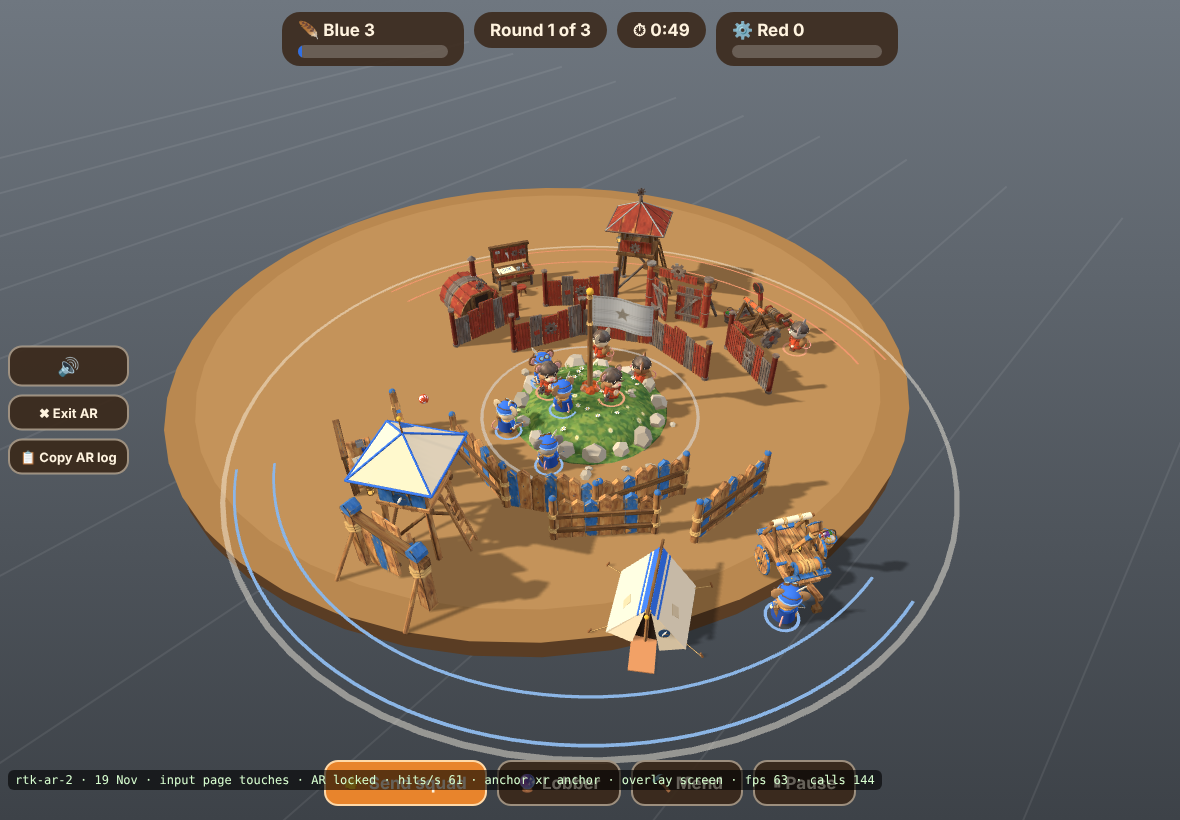
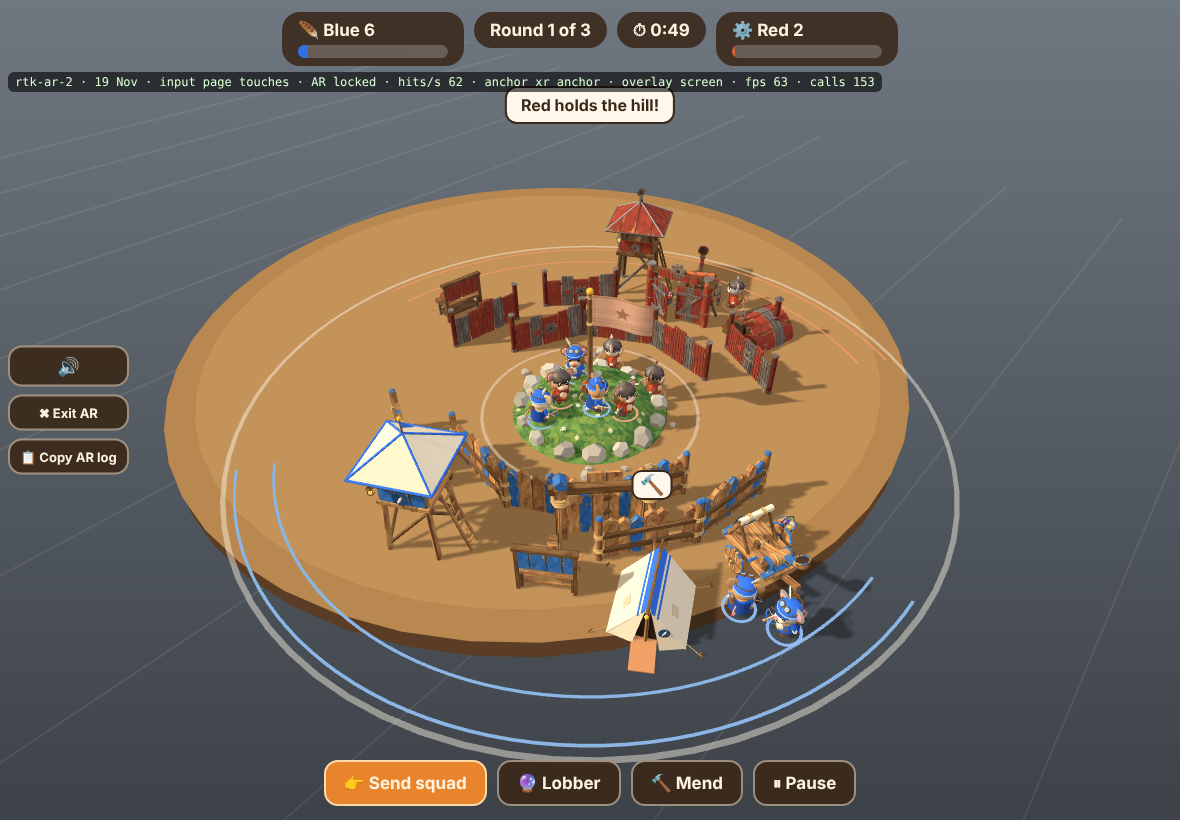
AR: page bars put away when the buttons are in the scene; AR notes with the 8-step try list; shots
Claude-Session: https://claude.ai/code/session_0171oc5wTsPoimaja7RRfUcs

diff --git a/games/sofa-siege/tests/ar-test.js b/games/sofa-siege/tests/ar-test.js
@@ -166,6 +166,7 @@ const run = async () => {
     await ev2(() => SG.demo(11, 0)); await btn('done'); ok(label + ': Done ends the build; Start battle is offered in the scene', await ev2(() => SG.phase === 'ready' && SG.ar.buttons.indexOf('start') >= 0));
     await btn('start'); await ev2(() => { SG.step(SG.CONFIG.count + .1); SG.sides[1].bot = false; SG.stepUntil(() => SG.debug.crewReady(0), 15); SG.sides[0].reload = 0; }); await fr(3);
     ok(label + ': the fight shows Squad, Lobber, Mend, Pause and Exit AR in the scene', await ev2(() => SG.phase === 'fight' && ['squad', 'lobber', 'mend', 'pause', 'exit'].every((b) => SG.ar.buttons.indexOf(b) >= 0)), JSON.stringify(await ev2(() => SG.ar.buttons)));
+    if (label === 'overlay missing') { await ev2(() => { document.body.style.background = 'linear-gradient(#6f7780,#3d4248)'; SG.render(); }); await fr(2); await p.screenshot({ path: path.join(SHOTS, 'ar-4-scene-buttons.png') }); }
     q = await sc(0.1, 0.3); await tap(q.x, q.y); ok(label + ': a tap sends the squad', await ev2(() => SG.sides[0].order && Math.hypot(SG.sides[0].order.x - 0.1, SG.sides[0].order.z - 0.3) < 0.05));
     await btn('lobber'); const d0 = await sc(-1.0, 1.4), d1 = await sc(-1.0, 2.3);
     await ev2(([d0]) => __XRF.press(d0.x, d0.y), [d0]); await fr(2); for (let k = 1; k <= 4; k++) { await ev2(([d0, d1, k]) => __XRF.drag(d0.x + (d1.x - d0.x) * k / 4, d0.y + (d1.y - d0.y) * k / 4), [d0, d1, k]); await fr(2); }

diff --git a/games/sofa-siege/index.html b/games/sofa-siege/index.html
@@ -18,7 +18,8 @@ canvas{display:block;touch-action:none}
 #ui{position:fixed;left:0;top:0;right:0;bottom:0;pointer-events:none}#ui .btn,#ui input{pointer-events:auto}.cover{pointer-events:auto}.bar{pointer-events:none}
 body.ar{background:transparent}body.ar #ui{pointer-events:auto;touch-action:none}body.ar #tag,body.ar #bCam{display:none!important}
 #arbar{display:none;align-items:center}
-#dev{position:fixed;left:8px;bottom:30px;font:12px ui-monospace,Menlo,monospace;background:rgba(0,0,0,.6);color:#d8ffd0;padding:3px 7px;border-radius:6px;display:none;pointer-events:none;white-space:pre}
+body.sceneui .bar,body.sceneui #side,body.sceneui #say{display:none!important}
+#dev{position:fixed;left:8px;top:72px;font:12px ui-monospace,Menlo,monospace;background:rgba(0,0,0,.6);color:#d8ffd0;padding:3px 7px;border-radius:6px;display:none;pointer-events:none;white-space:pre}
 #bCam{position:fixed;right:12px;top:12px;display:none;font-size:14px;padding:8px 12px}
 #side{position:fixed;left:8px;top:50%;transform:translateY(-50%);display:none;flex-direction:column;gap:8px}#side .btn{font-size:18px;padding:8px 10px}#bPause2{display:none}
 .pp{position:fixed;left:0;right:0;bottom:0;height:70px;display:none;align-items:center;justify-content:space-between;gap:8px;padding:0 10px;box-sizing:border-box;pointer-events:none}

diff --git a/games/sofa-siege/game.js b/games/sofa-siege/game.js
@@ -774,7 +774,7 @@ function arFrame(time,frame){
   if(AR.xrSrc&&vp){var sp=arSelPoint(frame,AR.xrSrc);if(sp&&AR.xrPt&&(Math.abs(sp.x-AR.xrPt.x)>.5||Math.abs(sp.y-AR.xrPt.y)>.5)){AR.xrPt=sp;AR.h.move(synth(sp));}}
   /* no overlay 1.5 s in, or taps seen by XR that never reached the page: draw the buttons in the scene instead */
   if(!AR.sceneUi&&((AR.overlay==='none'&&time-AR.started>1500)||(AR.selN>0&&!AR.domInput&&performance.now()-AR.selT>400))){AR.sceneUi=true;AR.inputPath='xr select';arEvent('in-scene buttons on ('+(AR.overlay==='none'?'no overlay':'overlay gets no touches')+')');}
-  if(AR.sceneUi)sceneUiFrame();else if(V.sui)V.sui.visible=false;
+  if(AR.sceneUi){sceneUiFrame();if(document.body.className!=='ar sceneui')document.body.className='ar sceneui';}else if(V.sui)V.sui.visible=false;   /* with the buttons in the scene, the page's own bars are put away so the two never overlap */
   arPublic();render();if(SG.dev)devLine(raw);if(PERF)perfFrame(raw);}
 /* ---- XR select as taps and drags ---- */
 function synth(pt){return {clientX:pt.x,clientY:pt.y,pointerId:9001,pointerType:'touch',target:E('ui'),xr:true,preventDefault:function(){}};}

diff --git a/games/sofa-siege/AR_NOTES.md b/games/sofa-siege/AR_NOTES.md
@@ -17,7 +17,7 @@ The practice table is still the default. AR starts only from the title button "P
 - **Guard:** pixel ratio capped at 1.5, shadow map 1024. If frames stay over 40 ms for 3 seconds, shadows go off and the dev line says so once.
 - **`?dev=1`:** a small line with the session state, hit tests a second, frame rate, draw calls and the anchor kind.
 
-## Proven by the fake (tests/ar-test.js, 32 checks)
+## Proven by the fake (tests/ar-test.js, 73 checks)
 
 - The page starts with no WebXR, with WebXR but no AR, and when the session refuses to start.
 - The session starts with the right features; the practice room is hidden.
@@ -29,6 +29,11 @@ The practice table is still the default. AR starts only from the title button "P
 - A full bot match runs inside the session to a winner, with no stuck mouse.
 - A saved card layout is offered after the lock and used.
 - Leaving AR goes back to the title, and the practice table still plays.
+- **In-scene buttons:** with no overlay (1.5 seconds in), or with an overlay that never gets a touch, flat buttons are drawn along the bottom of the view and every tap and drag comes through the XR `select` events. A whole flow was played that way twice: place, turn, size, lock, build by tap and by drag, Undo, Done, Start battle, Squad, Lobber drag, Mend, Pause, Re-place table, Exit AR.
+- **Exit AR** ends the session, and tidies up by itself if the session never answers.
+- **Tracking loss with no tracking state:** a pose that is exactly unchanged for 2 seconds while `devicemotion` says the iPad moves counts as lost; an iPad lying still does not. A jump of over 1 m in one frame pauses, asks "Is the table still in place?" and offers Re-place table; the table is not moved.
+- **The guard:** does not trip at 16 ms a frame, trips after about 3 seconds at 60 ms a frame, and says so once.
+- **Copy AR log** gives build, user agent, features, overlay, input path, anchor kind, frame rate, hit tests, table size, every pause and loss with its time, and page errors. No picture and nothing about the room.
 - No page errors.
 
 The fake is a small hand-written WebXR (`tests/ar-fake.js`): one flat disc for the table, a camera the test moves, perfect tracking. It is not the WebXRKit polyfill that Base Camp's tests use.
@@ -36,35 +41,32 @@ The fake is a small hand-written WebXR (`tests/ar-fake.js`): one flat disc for t
 ## NOT TESTED on a real iPad (most of it)
 
 1. **Whether the session starts in HelloXR at all** with these features. The hit-test source asks for `entityTypes: ['plane']` as Base Camp does, and falls back to the default if that is refused.
-2. **The dom overlay.** Base Camp's notes say HelloXR's polyfill can start without wiring the overlay. This build copies Base Camp's fix (it finds the polyfill's device and calls `setDomOverlayRoot`), and the dev line then says `overlay connected by the game`. That path cannot run in the fake, so it is untested. There are no in-scene buttons as a fallback: if the overlay does not show, there is nothing to press.
+2. **The dom overlay.** Base Camp's notes say HelloXR's polyfill can start without wiring the overlay. This build copies Base Camp's fix (it finds the polyfill's device and calls `setDomOverlayRoot`), and the dev line then says `overlay connected by the game`. That path cannot run in the fake. If the overlay is missing or deaf, buttons are drawn in the scene instead; that fallback depends on HelloXR sending XR `select` events for screen taps, which is also unknown. If it sends neither page touches nor selects, nothing can be pressed.
 3. **Touches.** In AR the taps are read from the overlay root (`#ui`). Whether HelloXR delivers pointer events there, and whether a tap on a button also reaches the table, is unknown.
 4. **The camera picture behind the game.** The canvas is see-through and the page background is clear in AR. Whether HelloXR shows the camera behind it, or a black page, is unknown.
 5. **three.js r128's own XR code in HelloXR** (`renderer.xr.setSession`). Base Camp uses the same call, so this is the likeliest part to work.
 6. **Hit tests on a real table:** how fast a plane is found, whether the ring jitters, whether it lands on the floor through a glass table.
 7. **Scale and drift:** whether 100 cm really matches a 1 m table, and how far the game slides when you walk round. HelloXR's anchors are emulated in JavaScript and its origin jumps after sleep (Base Camp's notes), so expect the table to move after the iPad sleeps. Use Re-place table.
-8. **Tracking loss:** Base Camp's notes say HelloXR "sends no tracking state". If it keeps sending a stale pose, the 1-second rule will never fire.
+8. **Tracking loss:** Base Camp's notes say HelloXR "sends no tracking state". The frozen-pose rule needs `devicemotion` events, which iOS gives only after a permission prompt that this build does not ask for; without them a frozen pose is not noticed. A stale pose that still drifts a little is not noticed either.
 9. **Frame rate, heat and battery.** About 63,000 triangles and 170 draw calls; never measured on an A-series chip.
 10. **Shadows on the invisible plane** against a real table top: may look too dark, too faint, or float.
 11. **Sound** in the app's web view.
 12. **Portrait and landscape, and rotating the iPad mid-session.**
 13. **Two players in AR.** Not built. AR is one player against the robot.
 
-## What Harry should try, and what to look for
+## What Harry should try (8 steps), and what each outcome tells us
 
-Open the game in HelloXR with `?dev=1` on the end of the address.
+Open the game in HelloXR with `?dev=1` on the end of the address. The green dev line near the top left starts with the build label (`rtk-ar-2 · 19 Nov`); if it says something else, the page is an old copy.
 
-1. **Title.** Is there a "Play on my table (AR)" button? If not, note the small line under Play.
-2. **Press it.** Does the camera picture appear? Is the bar "Find your table" visible at the bottom? Read out the dev line (bottom left).
-3. **Point at the table.** Does a white ring appear on the table top? How long does it take? Does it sit on the table or on the floor?
-4. **Tap.** Does a faint table ring with a green hill appear where the white ring was?
-5. **Turn and size.** Drag sideways, twist with two fingers, move the slider. Set it so the faint ring matches your table's edge. What size did that take?
-6. **Lock table.** Do the mats, mice and build buttons appear? Does the dev line say `anchor xr anchor` or `anchor fixed pose`?
-7. **Build.** Tap a wall on the mat, then tap the table. Does the wall land under your finger? Try it from the other side of the table.
-8. **Walk round the table.** Does the camp stay put on the table, or slide? By about how much?
-9. **Fight.** Send squad to the hill, drag back for the lobber, mend. Do all three work by touch?
-10. **Cover the camera for two seconds.** Does it say "Tracking lost" and pause? Does it come back?
-11. **Lock the iPad for 10 seconds and unlock.** Where is the table now? Does Re-place table fix it?
-12. **Frame rate.** What does the dev line say for fps during a fight? Does it say "shadows off"?
-13. **Leave AR.** Does the title come back?
+| # | Do this | If it works | If it does not |
+|---|---|---|---|
+| 1 | Look at the title. Is there "Play on my table (AR)"? | HelloXR reports immersive-ar to the page. | The small line under Play says why. WebXR is not reaching the page: nothing else can be tried. |
+| 2 | Press it. Do you see the camera picture, and "Find your table" at the bottom? | The session starts and the page is see-through. | Black screen: the camera is not shown behind the page. A message on the title: the session was refused; read it out. |
+| 3 | Wait two seconds. Where are the buttons: small rounded ones (the page's) or big flat ones along the bottom (drawn in the scene)? Read the dev line: `overlay ...` and `input ...`. | Page buttons and `input page touches`: the overlay works. Big flat buttons and `input xr select`: the overlay is missing or deaf, and the fallback took over. | No buttons at all after a tap: neither path works. Press nothing else; send the dev line. |
+| 4 | Point at the table. Does a white ring sit on the table top? Tap. Does a faint ring with a green hill appear there? | Hit tests and taps work. `hits/s` in the dev line shows how many. | No ring: no flat surface found (try more light, a table with some pattern). Ring on the floor: the table top is not seen as a plane. |
+| 5 | Turn it, size it to your table's edge, press Lock table. Note the size in cm and whether the dev line says `anchor xr anchor` or `anchor fixed pose`. | The size tells us if 160 mm per unit is right. | If Lock does nothing, say which buttons you see. |
+| 6 | Build: tap a wall on the mat outline, then tap the table. Do it again from the other side of the table. | The wall lands under your finger from both sides: the tap ray is right. | Lands off to one side by the same amount each time: the camera picture and the 3D view are not lined up. |
+| 7 | Press Done, Start battle, and play a round: Squad, Lobber (drag back), Mend. Walk round the table once. Then lock the iPad for 10 seconds and unlock. | Camp stays on the table: tracking and the anchor hold. After unlock you may get "The view jumped": that is the game noticing. | Camp slides as you walk: no real anchor. Camp is somewhere else after unlock with no message: the jump was under 1 m; use Re-place table. |
+| 8 | Press Copy AR log (left side, or the big "Copy log" button), paste it into a message. Then Exit AR. | We get the numbers: frame rate, input path, every pause. The title comes back. | If Exit AR does not bring the title back, close the tab; tell us. |
 
-For each step, a photo of the screen and the dev line text is the most useful thing to send back.
+A photo of the screen at steps 3, 4 and 7 is worth more than a description.
